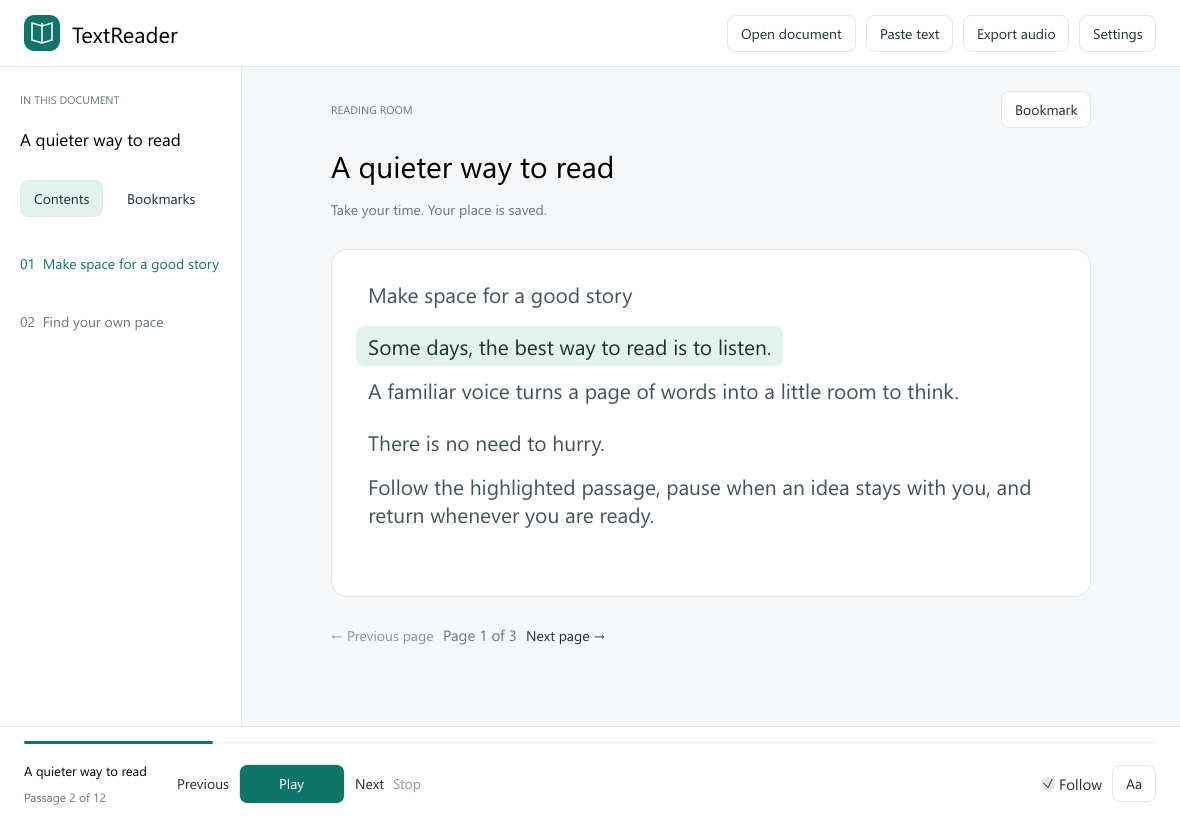
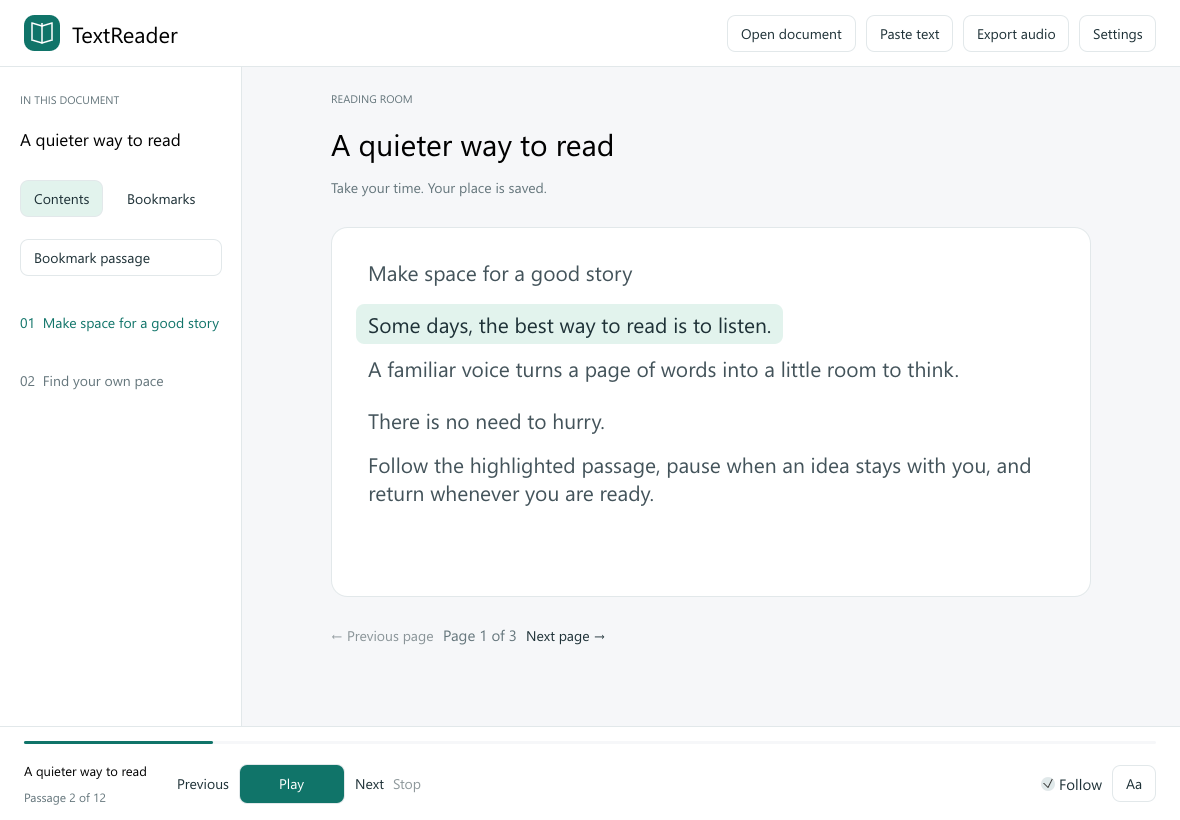
Group bookmark actions in the navigation panel

diff --git a/src/view.rs b/src/view.rs
@@ -186,6 +186,45 @@ impl App {
                     ui.selectable_value(&mut self.bookmark_tab, true, "Bookmarks");
                 });
                 ui.add_space(12.0);
+                if self.bookmark_tab {
+                    ui.add(
+                        egui::TextEdit::singleline(&mut self.bookmark_label)
+                            .hint_text("Bookmark name (optional)")
+                            .char_limit(100),
+                    );
+                }
+                let position = self.session.positions.get(&doc.id);
+                let saved = position
+                    .is_some_and(|p| p.bookmarks.iter().any(|mark| mark.chunk == self.cursor));
+                let full = position.is_some_and(|p| p.bookmarks.len() >= 200);
+                if saved {
+                    egui::Frame::new()
+                        .fill(TINT)
+                        .corner_radius(8)
+                        .show(ui, |ui| {
+                            ui.add_sized(
+                                [ui.available_width(), 36.0],
+                                egui::Label::new(RichText::new("Passage saved").color(ACCENT)),
+                            );
+                        })
+                        .response
+                        .on_hover_text("This passage is already in Bookmarks");
+                } else if ui
+                    .add_enabled(
+                        !full,
+                        egui::Button::new("Bookmark passage")
+                            .min_size(vec2(ui.available_width(), 36.0)),
+                    )
+                    .on_hover_text("Save the highlighted passage in Bookmarks")
+                    .on_disabled_hover_text(
+                        "Remove a bookmark before adding another (200 per document)",
+                    )
+                    .clicked()
+                {
+                    self.add_bookmark();
+                    self.bookmark_tab = true;
+                }
+                ui.add_space(12.0);
                 egui::ScrollArea::vertical().show(ui, |ui| {
                     if !self.bookmark_tab {
                         let active = doc
@@ -210,15 +249,6 @@ impl App {
                             }
                         }
                     } else {
-                        ui.add(
-                            egui::TextEdit::singleline(&mut self.bookmark_label)
-                                .hint_text("Bookmark name (optional)")
-                                .char_limit(100),
-                        );
-                        if ui.button("Save this passage").clicked() {
-                            self.add_bookmark();
-                        }
-                        ui.add_space(12.0);
                         let marks = self
                             .session
                             .positions
@@ -233,9 +263,14 @@ impl App {
                         let mut remove = None;
                         for (index, mark) in marks.iter().enumerate() {
                             ui.horizontal(|ui| {
+                                let remove_width = 36.0;
+                                let label_width = (ui.available_width()
+                                    - remove_width
+                                    - ui.spacing().item_spacing.x)
+                                    .max(0.0);
                                 if ui
                                     .add_sized(
-                                        [ui.available_width() - 32.0, 40.0],
+                                        [label_width, 40.0],
                                         egui::Button::new(&mark.label).wrap().frame(false),
                                     )
                                     .clicked()
@@ -243,7 +278,7 @@ impl App {
                                     self.seek(mark.chunk);
                                 }
                                 if ui
-                                    .small_button("×")
+                                    .add_sized([remove_width, 36.0], egui::Button::new("×"))
                                     .on_hover_text("Remove bookmark")
                                     .clicked()
                                 {
@@ -305,19 +340,7 @@ impl App {
                 .layout(egui::Layout::top_down(egui::Align::Min)),
             |ui| {
                 ui.set_max_width(width);
-                ui.horizontal(|ui| {
-                    caption(ui, "READING ROOM");
-                    ui.with_layout(egui::Layout::right_to_left(egui::Align::Center), |ui| {
-                        if ui
-                            .button("Bookmark")
-                            .on_hover_text("Save the current passage")
-                            .clicked()
-                        {
-                            self.add_bookmark();
-                            self.bookmark_tab = true;
-                        }
-                    });
-                });
+                caption(ui, "READING ROOM");
                 ui.add_space(8.0);
                 ui.label(RichText::new(&doc.title).size(30.0).strong());
                 ui.add_space(4.0);

diff --git a/src/app.rs b/src/app.rs
@@ -633,13 +633,14 @@ impl App {
         self.voice_ready = true;
         self.session.startup_updates = false;
         self.settings = screen == "settings";
+        self.bookmark_tab = screen == "bookmarks";
         self.message.clear();
         self.update_message = "Not checked this session.".into();
         if !empty {
             let text = include_str!("../tests/fixtures/design.txt");
             let document = Document::from_text("A quieter way to read".into(), text.into())?;
             self.session.document = Some(Arc::new(document));
-            self.cursor = 1;
+            self.cursor = if self.bookmark_tab { 4 } else { 1 };
             self.session
                 .positions
                 .entry(self.session.document.as_ref().unwrap().id.clone())

diff --git a/src/main.rs b/src/main.rs
@@ -32,7 +32,7 @@ fn main() -> anyhow::Result<()> {
     let result = if args.get(1).is_some_and(|s| s == "--screenshot") {
         anyhow::ensure!(
             args.len() >= 3,
-            "Usage: --screenshot ABSOLUTE.png [--screen reader|settings|empty] [--width 1180] [--height 820] [--scale 1]"
+            "Usage: --screenshot ABSOLUTE.png [--screen reader|bookmarks|settings|empty] [--width 1180] [--height 820] [--scale 1]"
         );
         let mut screen = "reader";
         let mut width = 1180;

diff --git a/src/desktop.rs b/src/desktop.rs
@@ -106,7 +106,7 @@ impl Raster {
 
 pub fn capture(path: &Path, screen: &str, width: u32, height: u32, scale: f32) -> Result<()> {
     ensure!(
-        matches!(screen, "reader" | "settings" | "empty"),
+        matches!(screen, "reader" | "bookmarks" | "settings" | "empty"),
         "Unknown capture screen: {screen}"
     );
     ensure!(path.is_absolute(), "Screenshot path must be absolute");

diff --git a/README.md b/README.md
@@ -11,7 +11,7 @@ Real application-generated client-area capture, synthetic document, CPU/software
 1. Choose **Open document** or **Paste text**. TXT, Markdown, DOCX and unencrypted EPUB are supported.
 2. Press **Play**. The same button becomes **Pause** or **Resume**; Space also toggles playback when a text field is not focused. The current sentence or bounded passage is highlighted after submission to SAPI and advances on actual engine completion.
 3. Click a passage, chapter or bookmark to choose a starting point. **Previous** and **Next** move between paragraphs; page controls browse groups of five passages. Navigation stops playback. Press Play to start at the selected passage again.
-4. Use **Bookmark** to save your place, or open the **Bookmarks** tab to add a label or remove a bookmark. Up to 200 bookmarks per document are supported. The last document and reading position restore without automatically playing sound.
+4. Use **Bookmark passage** in the left navigation panel to save the highlighted passage and open **Bookmarks**. A saved passage shows **Passage saved**. The Bookmarks tab also lets you enter an optional name before saving or remove a bookmark. Up to 200 bookmarks per document are supported. The last document and reading position restore without automatically playing sound.
 5. Open **Settings** for voice, reading speed and text size. The system voice works by default; classic desktop SAPI voices are enumerated. Windows Narrator/OneCore-only voices may not appear. Voice/speed changes stop playback so the next Play uses the new choice.
 6. **Export audio** creates a new `.wav` containing the entire document with the selected voice and speed. Progress and cancellation are provided. Existing destination files are preserved.
 
@@ -63,7 +63,7 @@ Cargo uses at most two jobs and local `target/`. Packaging generates `dist/TextR
 
 The original book icon is embedded in the EXE for Explorer/shortcuts and assigned explicitly to the native window and taskbar. The Windows SDK resource compiler embeds the committed multi-resolution ICO during Cargo builds; no separate icon file is needed beside the release EXE. `scripts/verify-artifact.ps1` checks the actual icon resources and sizes in the built PE file. Editable assets are in `assets/`; `scripts/generate-icon.py` needs Pillow only when regenerating them.
 
-Static review without Computer Use: `scripts/capture.ps1 -Output ABSOLUTE.png -Screen reader|settings|empty`. It launches the real EXE in an isolated, bounded offscreen render-save-exit mode; no workers, user profile, audio or update requests are started. Width/height are logical pixels and `-Scale` controls physical output. Screenshots verify the client UI, not native chrome, dialogs or input traversal.
+Static review without Computer Use: `scripts/capture.ps1 -Output ABSOLUTE.png -Screen reader|bookmarks|settings|empty`. It launches the real EXE in an isolated, bounded offscreen render-save-exit mode; no workers, user profile, audio or update requests are started. Width/height are logical pixels and `-Scale` controls physical output. Screenshots verify the client UI, not native chrome, dialogs or input traversal.
 
 Opt-in backend check: `cargo run --locked --example sapi_smoke -j 2` renders synthetic speech into `.test-output/`. Add `-- --playback` only when sound is authorized to test real SAPI transport as well. `scripts/diagnose.ps1 -Output ABSOLUTE.json` runs a bounded isolated visible/minimized/restored scheduling test and exits; it is separate from static capture.
 

diff --git a/docs/INTERACTIVE-VALIDATION.md b/docs/INTERACTIVE-VALIDATION.md
@@ -51,6 +51,14 @@ Formatting, Clippy with `-D warnings`, all 14 silent/fixture tests, optimized x6
 
 Remaining checks: actual input/scroll/focus/native file dialogs, physical audibility and subjective responsiveness after this redesign, screen-reader traversal, broader font/language/DPI coverage, clean-machine deployment and a live updater round-trip. Computer Use remains paused as requested. PDF/OCR, DRM and MP3 are explicitly unsupported.
 
+## Bookmark placement follow-up
+
+Bookmark creation now lives directly below the Contents/Bookmarks tabs in the left navigation panel. Saving opens the bookmark list, and an existing bookmark is shown as a readable teal Passage saved status. Optional naming, saved entries and removal share that panel. The detached action above the reading surface and the duplicate save button were removed. Fixed row widths also prevent a bookmark's remove button from widening the navigation rail.
+
+Reader, Bookmarks, compact Reader and both Settings captures were regenerated through the real EXE's four-frame CPU self-capture path and visually inspected. The Bookmarks fixture shows an already saved passage; it does not simulate desktop interaction. The backend, normal repaint scheduling and worker behavior are unchanged. Formatting, Clippy, all 21 existing tests and artifact checks passed. No Computer Use or further native performance launch was performed; the previous native restored-idle limitation remains unresolved.
+
+See [Reader](images/reader.png), [Bookmarks](images/bookmarks.png), [compact Reader at 150%](images/reader-compact.png) and the [capture manifest](validation/artifact-and-captures.json).
+
 ## Settings close regression
 
 The reported inability to close Settings was reproduced with pointer movement, press and release events delivered directly to the real egui components. Before the repair, clicking the center of the title-bar X left Settings open. A 24-point window frame margin made the title bar tall enough for egui's double-click title region to overlap the X; that region still receives clicks when collapsing is disabled. Paste text used the same problematic margins.

diff --git a/docs/RELEASE-NOTES-v0.1.0.md b/docs/RELEASE-NOTES-v0.1.0.md
@@ -14,6 +14,7 @@ An independent local document listener for Windows x64, using installed desktop 
 ## Improved
 
 - A quieter reading room replaces truncated preview rows with wrapped passages, page navigation, a separate contents/bookmarks rail and a compact bottom player.
+- Keep bookmark actions together in the left navigation panel, with a visible saved state for the current passage.
 - Use CPU/software rasterization and Windows GDI instead of an OpenGL renderer. Retain the last bitmap and wait when no useful UI work is pending.
 - Add isolated render-save-exit screenshots and a bounded visible/minimized/restored performance diagnostic.
 - Preserve the selected reading page after restoration, keep pasted text on recoverable errors and allow audio export while a startup update check is pending.
